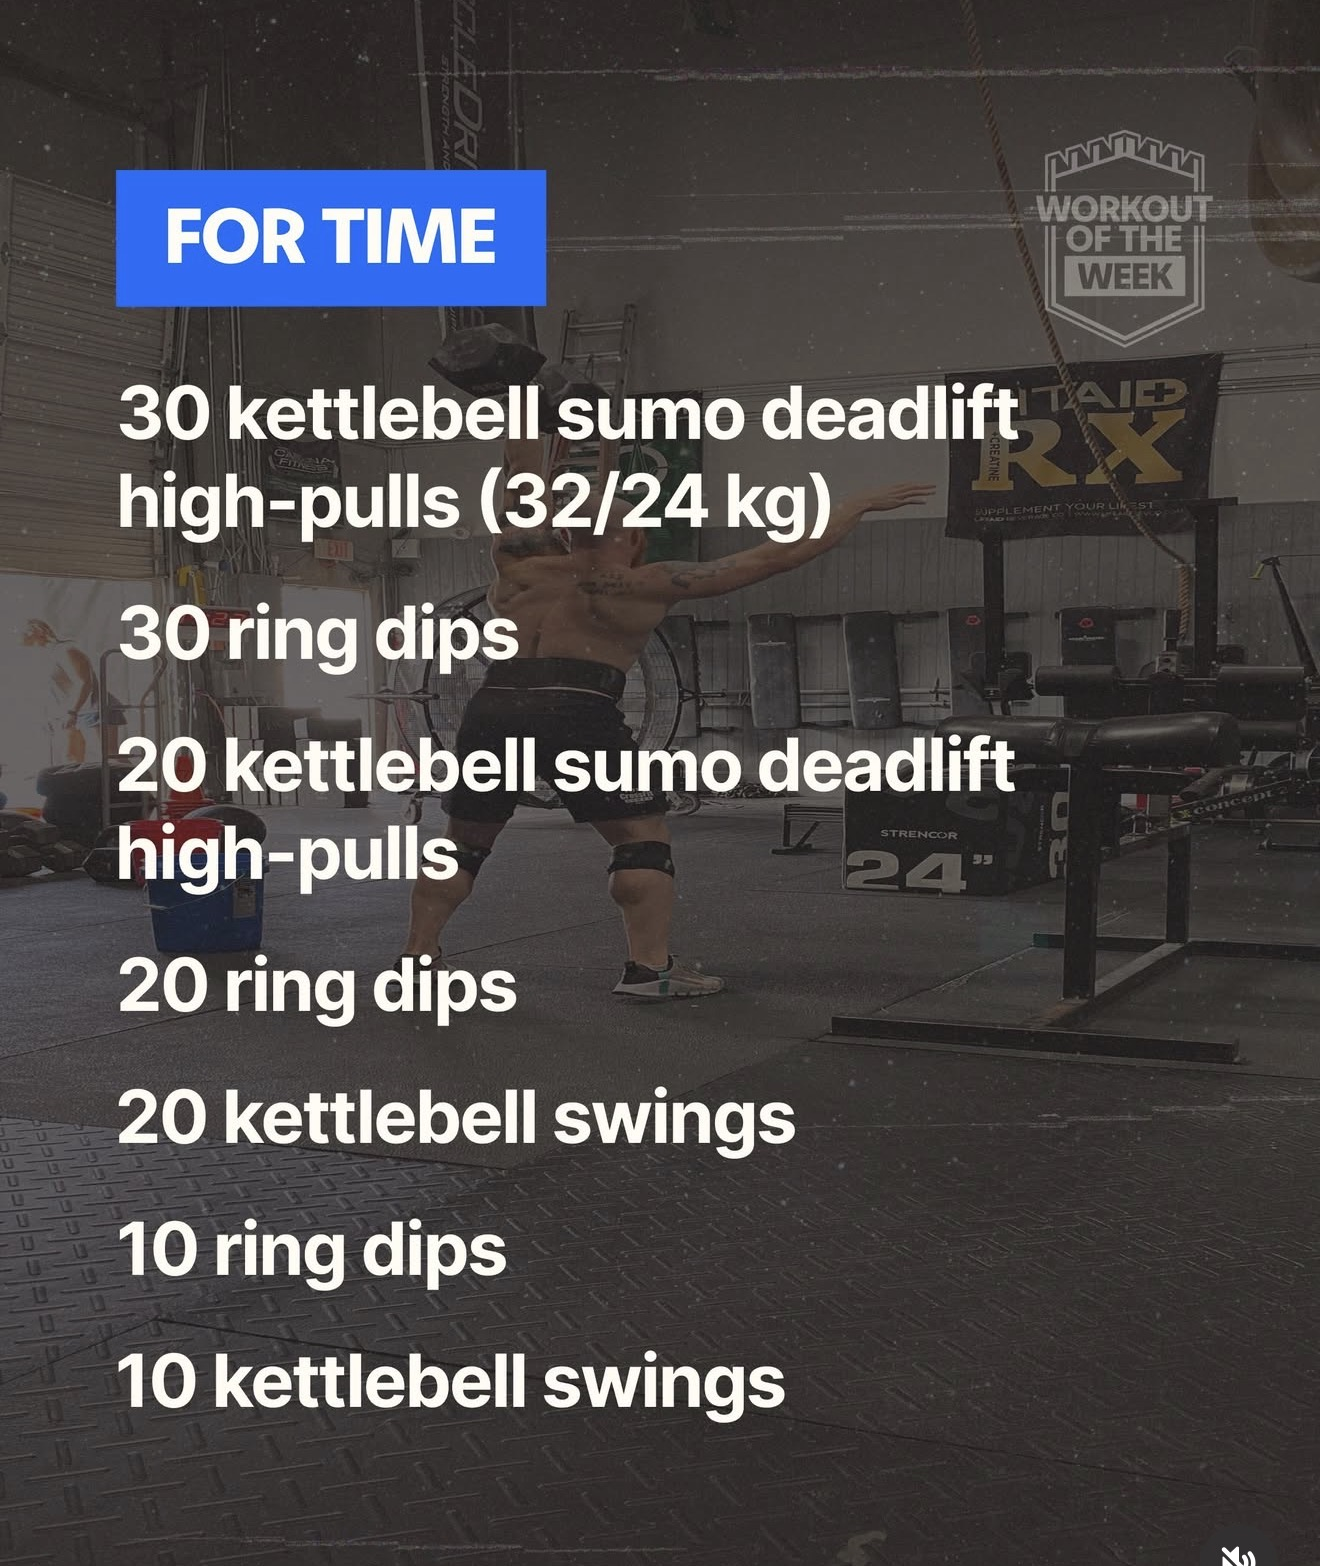
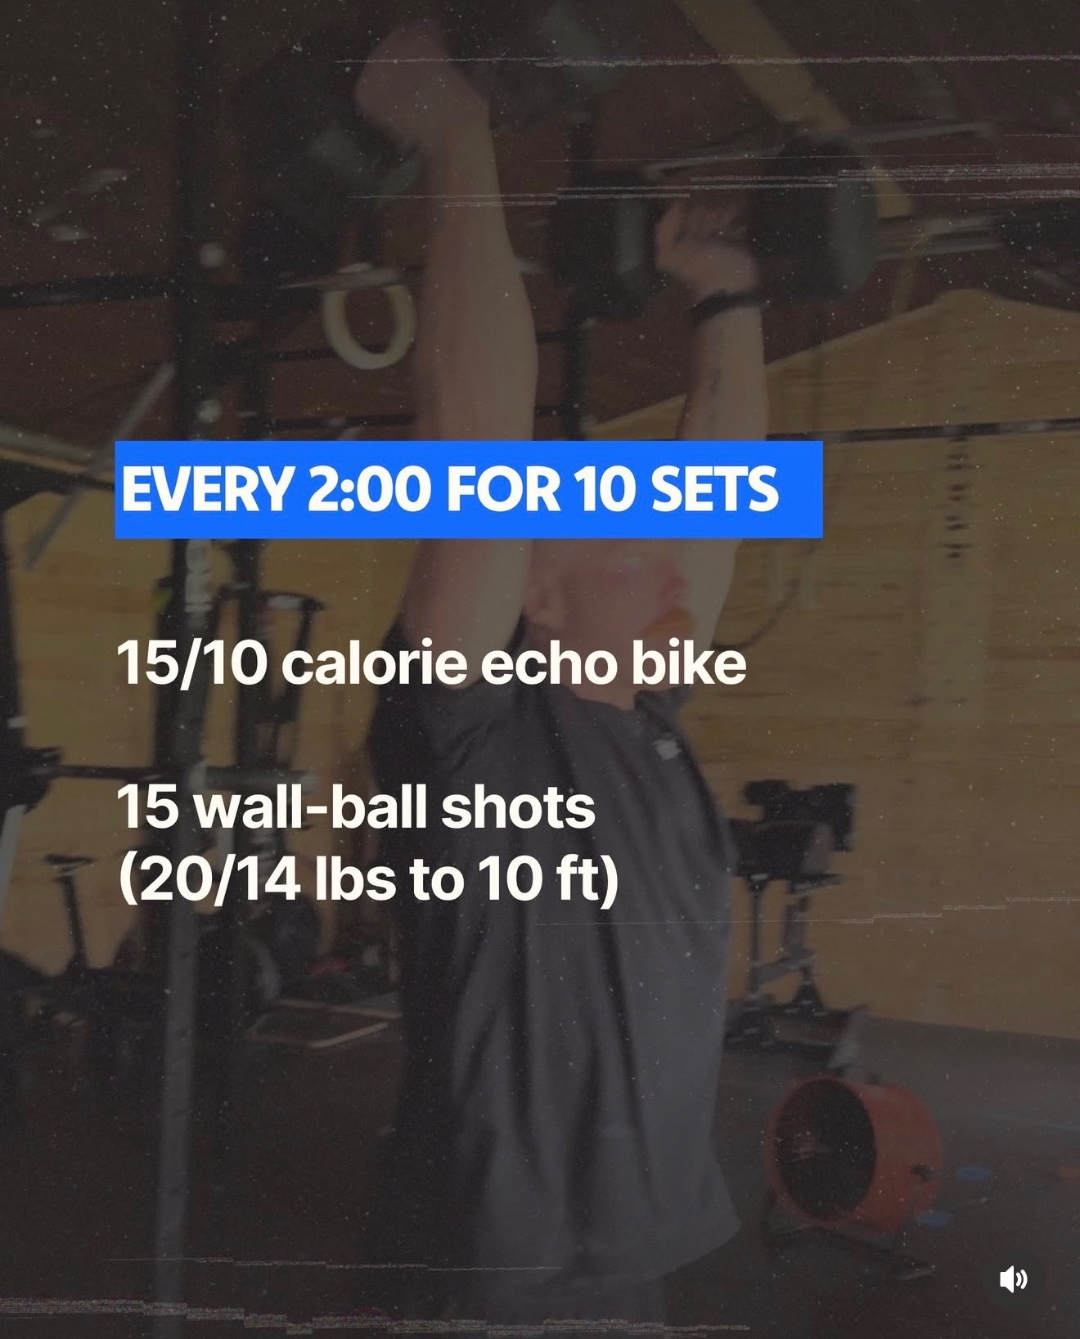
Update WOTW to Sentinel Classic Track (Aug 3): E2MOM 10 sets of 15/10 cal echo bike + 15 wall-balls, new warm-up/cool-down/scaling/masters

diff --git a/wotw.html b/wotw.html
@@ -106,8 +106,8 @@
         <h2 class="section__title">Workout of the Week</h2>
       </div>
       <div class="wotw-dateblock">
-        <span class="wotw-date" id="wotwDate">Week of August 2nd, 2026</span>
-        <span class="wotw-source" id="wotwSource">Sentinel Training CrossFit Charlotte Class Workout</span>
+        <span class="wotw-date" id="wotwDate">Week of August 3rd, 2026</span>
+        <span class="wotw-source" id="wotwSource">Sentinel Training Classic Track</span>
       </div>
     </div>
 
@@ -133,26 +133,24 @@
           Warm-up
         </h4>
         <p class="wotw-block__text" id="wotwWarmup">
-          Warm-up (8&ndash;12 minutes)<br>
+          Tabata echo bike &ndash; 7 RPE<br>
           <br>
-          General (3&ndash;4 minutes)<br>
-          2&ndash;3 minutes easy cardio: row, bike, or light jog.<br>
-          10 shoulder circles each direction, 10 arm swings across chest, 10 band pull-aparts.<br>
+          Then&hellip;<br>
+          2 rounds:<br>
+          1 minute of banded pass throughs<br>
+          1 minute of bootstrap squats<br>
           <br>
-          Dynamic prep (4&ndash;6 minutes)<br>
-          Move through 2 rounds, controlled pace:<br>
-          10 air squats<br>
-          10 walking lunges (5/leg)<br>
-          10 ring rows<br>
-          10 push-ups<br>
-          10 PVC or light kettlebell good mornings<br>
-          10 hollow rocks or dead bugs<br>
+          Then&hellip;<br>
+          2 rounds:<br>
+          1 minute of medicine ball overhead marches<br>
+          15 medicine ball cleans<br>
           <br>
-          Specific warm-up (3&ndash;5 minutes)<br>
-          With a lighter kettlebell than workout weight:<br>
-          2 sets of 5 kettlebell sumo deadlift high pulls, slow tempo, focusing on hips then elbows high and outside.<br>
-          1&ndash;2 sets of 10 Russian kettlebell swings.<br>
-          2&ndash;3 sets of 3&ndash;5 controlled ring dips or your scaled version (feet assist, band, boxes) to groove bottom position and shoulder stability.
+          Then&hellip;<br>
+          10 PVC pipe overhead squats<br>
+          10/7 calories echo bike &ndash; FAST<br>
+          <br>
+          Then&hellip;<br>
+          Build to overhead squat loading in 5&ndash;7 minutes.
         </p>
       </div>
 
@@ -165,18 +163,8 @@
           Cool-down
         </h4>
         <p class="wotw-block__text" id="wotwCooldown">
-          Cool-down (6&ndash;10 minutes)<br>
-          <br>
-          Heart-rate down (2&ndash;3 minutes)<br>
-          Easy walk around the gym or light bike until breathing is back to conversational.<br>
-          <br>
-          Stretch &amp; reset (4&ndash;7 minutes)<br>
-          Hold each stretch ~30&ndash;45 seconds per side, 1&ndash;2 rounds:<br>
-          Hamstrings: seated forward fold or standing toe-touch.<br>
-          Hip/low back: modified pigeon or half-pancake stretch.<br>
-          Chest/shoulders: doorway stretch or banded shoulder stretch, plus gentle ring or bar hang if available.<br>
-          Triceps: overhead triceps stretch (especially after ring dips).<br>
-          Glutes: lying figure-four stretch.
+          2 minute medicine ball + barbell t-spine opener<br>
+          2 minute frog stretch
         </p>
       </div>
 
@@ -189,7 +177,17 @@
           </svg>
           Scaling Notes
         </h4>
-        <!-- Add your scaling notes text here -->
+        <ul class="wotw-notes__list" id="wotwNotesList">
+          <li><strong>Rx:</strong> Every 2:00 for 10 sets &mdash; 15/10 calorie echo bike + 15 wall-ball shots at 20/14 lb to 10 ft.</li>
+          <li><strong>Stimulus:</strong> A repeating interval piece meant to be finished within each 2:00 window, leaving a short rest to recover before the next set. Aim to complete each set in roughly 60&ndash;80 seconds so you get 40&ndash;60 seconds of rest. Keep the bike hard but sustainable and the wall-ball shots unbroken.</li>
+          <li><strong>Scale option 1:</strong> Every 2:30 for 8 sets &mdash; 15/10 cal echo bike + 15 wall-ball shots at 20/14 lb (9/6 kg) to 10 ft.</li>
+          <li><strong>Scale option 2:</strong> Every 2:30 for 8 sets &mdash; 12/8 cal echo bike + 12 wall-ball shots at 20/14 lb (9/6 kg) to 10/9 ft.</li>
+          <li><strong>Scale option 3:</strong> Every 2:30 for 8 sets &mdash; 10/7 cal echo bike + 10 wall-ball shots at 20/14 lb (9/6 kg) to 10/9 ft.</li>
+          <li><strong>Scale option 4:</strong> Every 2:30 for 8 sets &mdash; 10/7 cal echo bike + 10 wall-ball shots at 14/10 lb (6/4 kg) to 10/9 ft.</li>
+          <li><strong>Loading / Volume mods:</strong> Reduce the echo bike calories to a count that allows completion in under 50 seconds (12/8 may be appropriate). Reduce the wall-ball shots to a count or loading that allows unbroken sets (10 reps OR 14/10 lb may be appropriate). Reduce to 6 sets to reduce overall volume.</li>
+          <li><strong>Masters:</strong> 40&ndash;44 &rarr; as prescribed. 45&ndash;49 &rarr; as prescribed. 50&ndash;54 &rarr; 12/9 cals + 12 wall-ball shots. 55&ndash;59 &rarr; 12/9 cals + 9 wall-ball shots, every 2:30 for 8 sets. 60+ &rarr; 12/9 cals + 9 wall-ball shots, every 2:30 for 8 sets.</li>
+          <li><strong>Score:</strong> Post whether you completed all 10 sets within the 2:00 window, or your slowest set time, in the comments below.</li>
+        </ul>
       </div>
     </div>
   </div>
